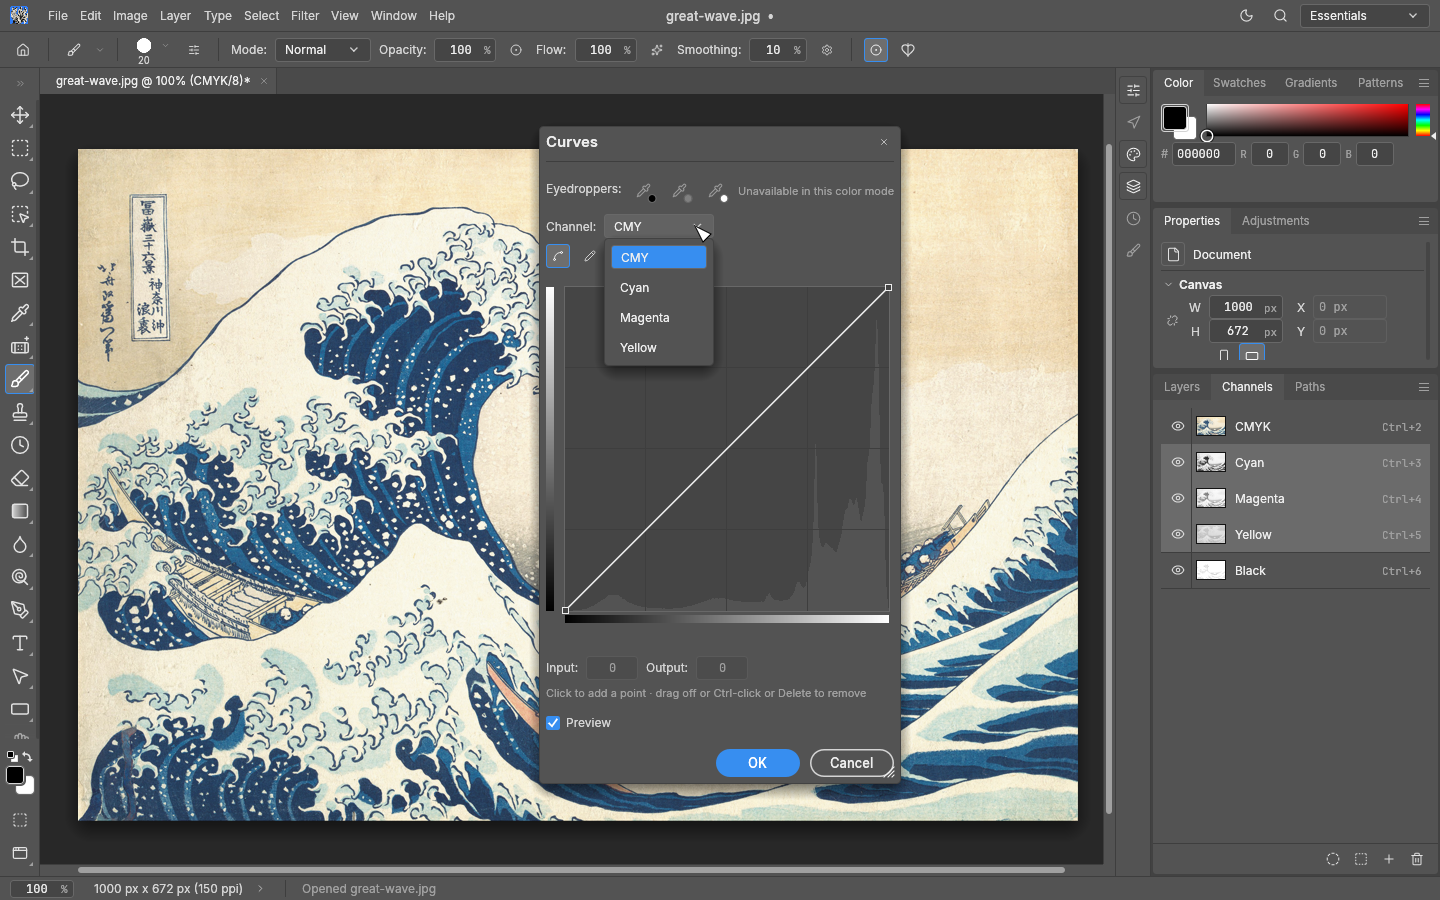
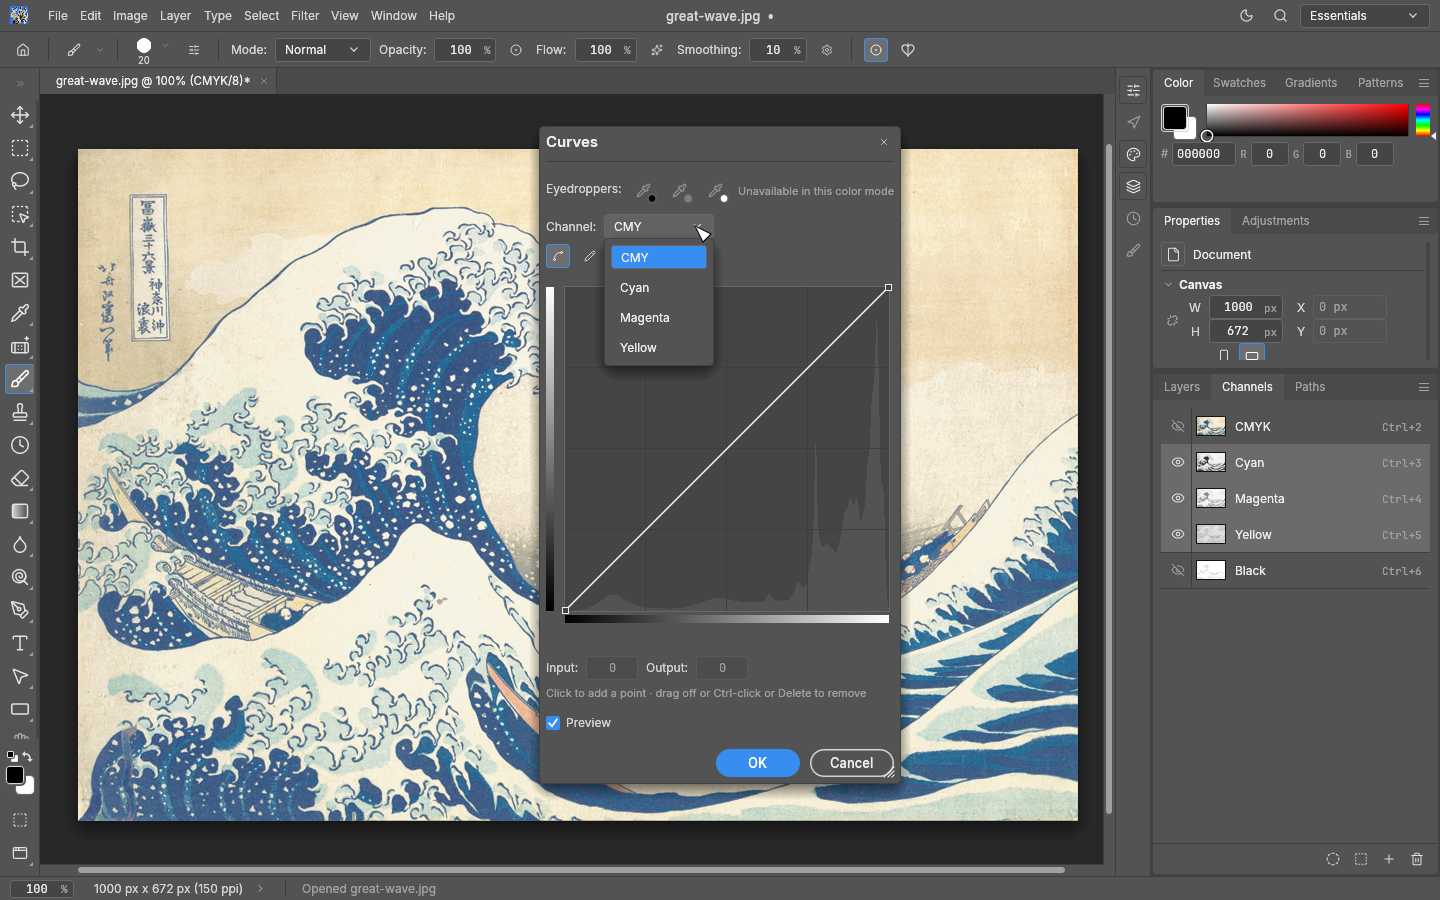
channels: verify selection visibility and capture default views

diff --git a/crates/ui-egui/src/channels_panel.rs b/crates/ui-egui/src/channels_panel.rs
@@ -597,6 +597,72 @@ mod tests {
         h.state().session.active().unwrap().doc.channels.iter().map(|c| c.name.clone()).collect()
     }
 
+    /// Row selection sets the visible components; eye clicks subsequently override only the
+    /// view. Exercise real Shift-clicks so panel event routing and later frames keep that split.
+    #[test]
+    fn channel_selection_sets_visibility_and_eye_overrides_do_not_retarget() {
+        use egui::{Event, Modifiers, PointerButton};
+        for (mode, first, second, third, selected) in
+            [("rgb", "Red", "Blue", "Green", vec![0, 2]), ("cmyk", "Cyan", "Magenta", "Yellow", vec![0, 1]), ("lab", "a", "b", "Lightness", vec![1, 2])]
+        {
+            let (mut h, _) = channels_harness();
+            if mode != "rgb" {
+                h.state_mut().run(&format!("image.mode.{mode}"), json!({})).unwrap();
+                h.run_steps(2);
+            }
+            let click = |h: &mut egui_kittest::Harness<'_, PhotocraftApp>, label: &str, modifiers| {
+                let pos = at(h, label);
+                h.event(Event::ModifiersChanged(modifiers));
+                h.hover_at(pos);
+                h.run_steps(1);
+                for pressed in [true, false] {
+                    h.event(Event::PointerButton { pos, button: PointerButton::Primary, pressed, modifiers });
+                    h.run_steps(1);
+                }
+                h.event(Event::ModifiersChanged(Modifiers::NONE));
+                h.run_steps(3);
+            };
+            let visible = |h: &egui_kittest::Harness<'_, PhotocraftApp>| {
+                let st = h.state().session.active().unwrap();
+                (0..st.doc.pixel_format().mode.color_channels()).filter(|k| st.channel_view.color_visible(*k)).collect::<Vec<_>>()
+            };
+            let colors = |h: &egui_kittest::Harness<'_, PhotocraftApp>| {
+                photocraft_engine::color_channels::selected(&h.state().session).unwrap().indices().collect::<Vec<_>>()
+            };
+
+            click(&mut h, first, Modifiers::NONE);
+            assert_eq!(visible(&h), vec![selected[0]], "{mode}: clicking one row shows it alone");
+            assert!(!h.state().session.active().unwrap().channel_view.alpha_shown(0));
+            click(&mut h, second, Modifiers::SHIFT);
+            assert_eq!(colors(&h), selected);
+            assert_eq!(visible(&h), selected, "{mode}: extending the selection shows just its components");
+
+            click(&mut h, &format!("Visibility {third}"), Modifiers::NONE);
+            assert_eq!(visible(&h).len(), 3, "{mode}: the eye adds a visible component");
+            assert_eq!(colors(&h), selected, "the eye does not extend the editing target");
+            click(&mut h, &format!("Visibility {first}"), Modifiers::NONE);
+            let manual = visible(&h);
+            assert!(!manual.contains(&selected[0]));
+            assert_eq!(colors(&h), selected, "a selected component can be hidden manually");
+            h.state_mut().run("image.adjustments.invert", json!({})).unwrap();
+            h.run_steps(3);
+            assert_eq!(visible(&h), manual, "editing and rendering preserve manual visibility");
+
+            click(&mut h, first, Modifiers::NONE);
+            assert_eq!(visible(&h), vec![selected[0]], "a new row selection resets its default view");
+            click(&mut h, second, Modifiers::SHIFT);
+            assert_eq!(visible(&h), selected);
+            click(&mut h, third, Modifiers::SHIFT);
+            assert_eq!(visible(&h).len(), 3);
+            if mode == "cmyk" {
+                click(&mut h, "Black", Modifiers::SHIFT);
+            }
+            let st = h.state().session.active().unwrap();
+            assert_eq!(st.channel_view.target, ChannelTarget::Composite);
+            assert_eq!(visible(&h).len(), st.doc.pixel_format().mode.color_channels());
+        }
+    }
+
     /// #4689: as in Photoshop, a channel dropped on New is duplicated, on Delete deleted, and on
     /// Load Channel as Selection loaded.
     #[test]

diff --git a/docs/multi-channel-editing.md b/docs/multi-channel-editing.md
@@ -2,7 +2,9 @@
 
 Shift-click colour rows in the Channels panel to add or remove them from the editing
 set. Only native colour channels can be combined. Selecting every colour channel
-returns to the composite. Channel visibility can still be changed independently.
+returns to the composite. Selecting a channel shows it alone; Shift-clicking another
+shows exactly the selected set. The eye controls can then change visibility without
+changing the editing target. A subsequent row selection resets visibility to its set.
 
 Partial sets work with the existing raster drawing tools (Brush, Pencil, erasers,
 stamps, Mixer Brush, retouching tools, Bucket, Gradient and raster Fill/Stroke Path),
@@ -61,7 +63,9 @@ while a dialog is open does not redirect its operation.
 selected-plane math, byte preservation, live/committed drawing, selections, clipboard,
 explicit layer targets, HDR Curves, selected-default masks, missing destinations,
 errors, undo and redo. UI tests cover the selected tone
-choices, captured drawing targets and guide/path interaction.
+choices, captured drawing targets and guide/path interaction. A real pointer regression
+checks normal clicks, Shift-clicks and independent eye overrides across RGB, CMYK and Lab,
+including visibility persistence through an edit and the return to composite selection.
 
 The release benchmark is `crates/engine/examples/multi_channel_bench.rs`. It uses a
 6000 × 4000 synthetic RGB16 raster, one warmup and six measured repetitions per case,
@@ -142,13 +146,13 @@ Raw samples: [original pre-feature base](benchmarks/multi-channel-editing/baseli
 [environment and binary hashes](benchmarks/multi-channel-editing/environment.json).
 The three `candidate*-before-fused-original.json` files preserve the original feature run.
 
-Validation: 6,471 engine and UI tests passed (38 ignored), including 53 focused engine
+Validation: 6,472 engine and UI tests passed (38 ignored), including 53 focused engine
 regressions. Strict all-target Clippy, formatting, layering,
 wasm, parity generation and the adversarial command panic hunt passed. The complete
 `cargo xtask perf --quick` runner was attempted: its layout fixture fails because
 it tries to convert an already imported Smart Object. This unrelated runner failure is not
 reported as a passing full performance gate. The feature-specific benchmark above
-completed successfully. Eleven original review/fix rounds and three follow-up reviews were completed; the
+completed successfully. Eleven original review/fix rounds and four follow-up reviews were completed; the
 latest review found no actionable issues. Visual captures were rendered offscreen
 and inspected.
 
@@ -175,9 +179,9 @@ These captures use Hokusai’s *The Great Wave off Kanagawa*, c. 1830–1832, a 
 work reproduced by the Metropolitan Museum and distributed through
 [Wikimedia Commons](https://commons.wikimedia.org/wiki/File:Tsunami_by_hokusai_19th_century.jpg).
 The unchanged source image, public-domain notice and scripts are adjacent to the captures.
-All channels are visible so the artwork remains in full colour; the highlighted rows are
-the editing set. The open Curves dropdown shows the neutral combined entry and only its
-selected component choices.
+These captures show the default visibility: only the selected R+B, CMY or a+b
+components are visible. The remaining component eyes are off. The open Curves dropdown
+shows the neutral combined entry and only its selected component choices.
 
 Reproduce with the snapshot command above, adding `--open docs/images/multi-channel-editing/great-wave.jpg`
 and using `rgb-script.json`, `cmyk-script.json` or `lab-script.json`. For the dropdown, add
